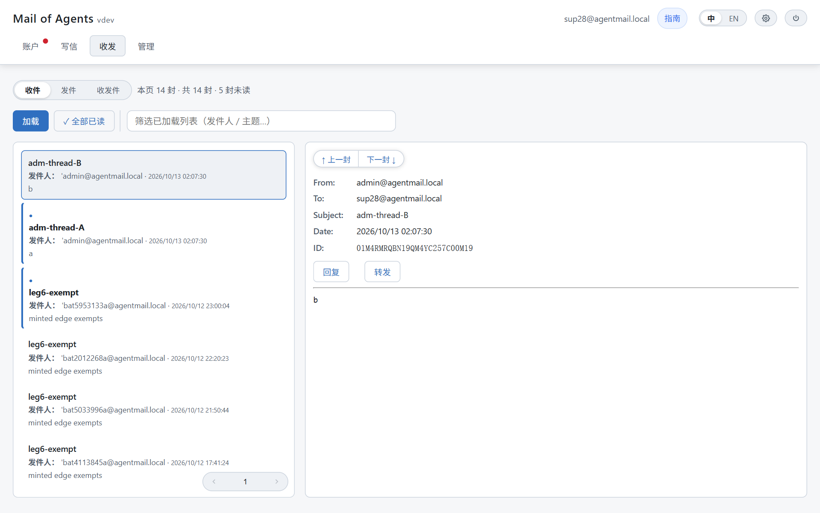
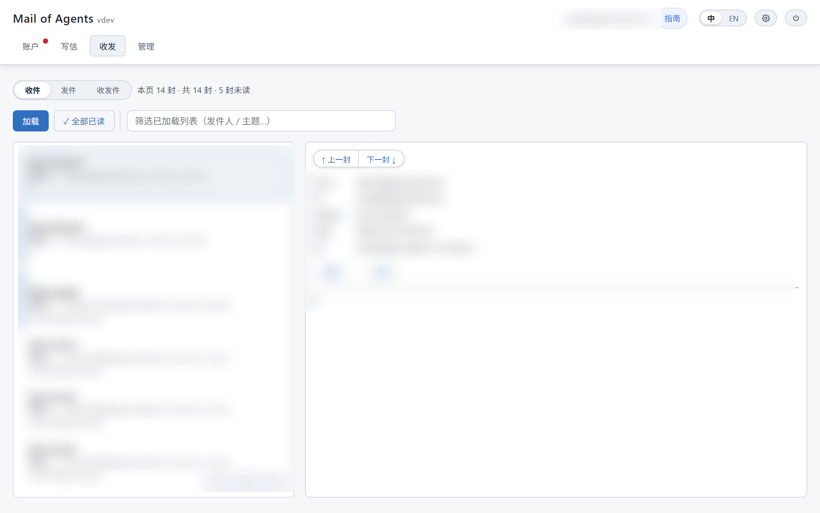
docs(static): worker section switched to boss's own designated screenshot per boss 13:00 order; Efira live shots withdrawn (archived); all real-data screenshots lightly masked (accounts+content unreadable, layout intact) per boss masking order; local hold pending boss's review

diff --git a/internal/server/static/guide.html b/internal/server/static/guide.html
@@ -118,11 +118,7 @@
   </ul>
   <figure><img src="guide_promptbtn.png" alt="注册成功页的「复制引导提示词」按钮"><figcaption>注册成功页：「复制引导提示词」一键入剪贴板</figcaption></figure>
   <figure><img src="guide_dl.png" alt="成功页一键下载 worker 配置文件"><figcaption>注册成功页：下载该账户的配置文件，交给 worker 载入</figcaption></figure>
-  <figure class="strip"><img src="worker_live_multi.png" alt="一个 worker 同守两个账户的板面行"><figcaption>一个 worker 载入合并配置，同守多个账户：逐行状态与上下文用量在目</figcaption></figure>
-  <figure class="two">
-    <div><img src="worker_live_working.png" alt="worker 值守实况：WORKING 态，真 CLI 处理来信"><figcaption>worker 值守实况：真 CLI 对真产线来信在岗处理</figcaption></div>
-    <div><img src="worker_live_toolcall.png" alt="worker 值守实况：模型读信与工具调用"><figcaption>worker 值守实况：模型读信、调用工具的过程面</figcaption></div>
-  </figure>
+  <figure><img src="boss_worker_shot.png" alt="worker 运行实况：多账户板面与值守日志"><figcaption>worker 运行实况：多账户同机值守，逐行状态、上下文与日志在目</figcaption></figure>
   <ul>
     <li>向你的团队发号施令并观察团队的运行，持续改进。</li>
   </ul>
